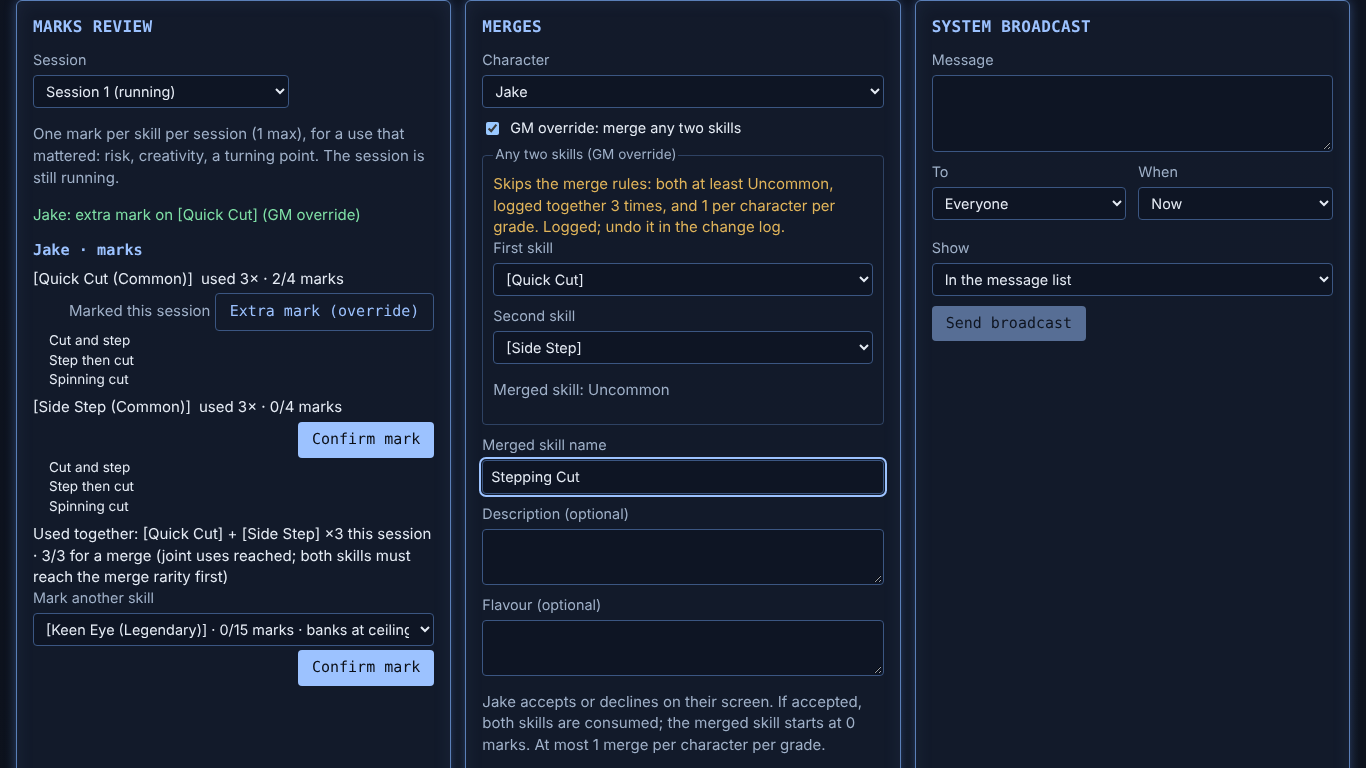
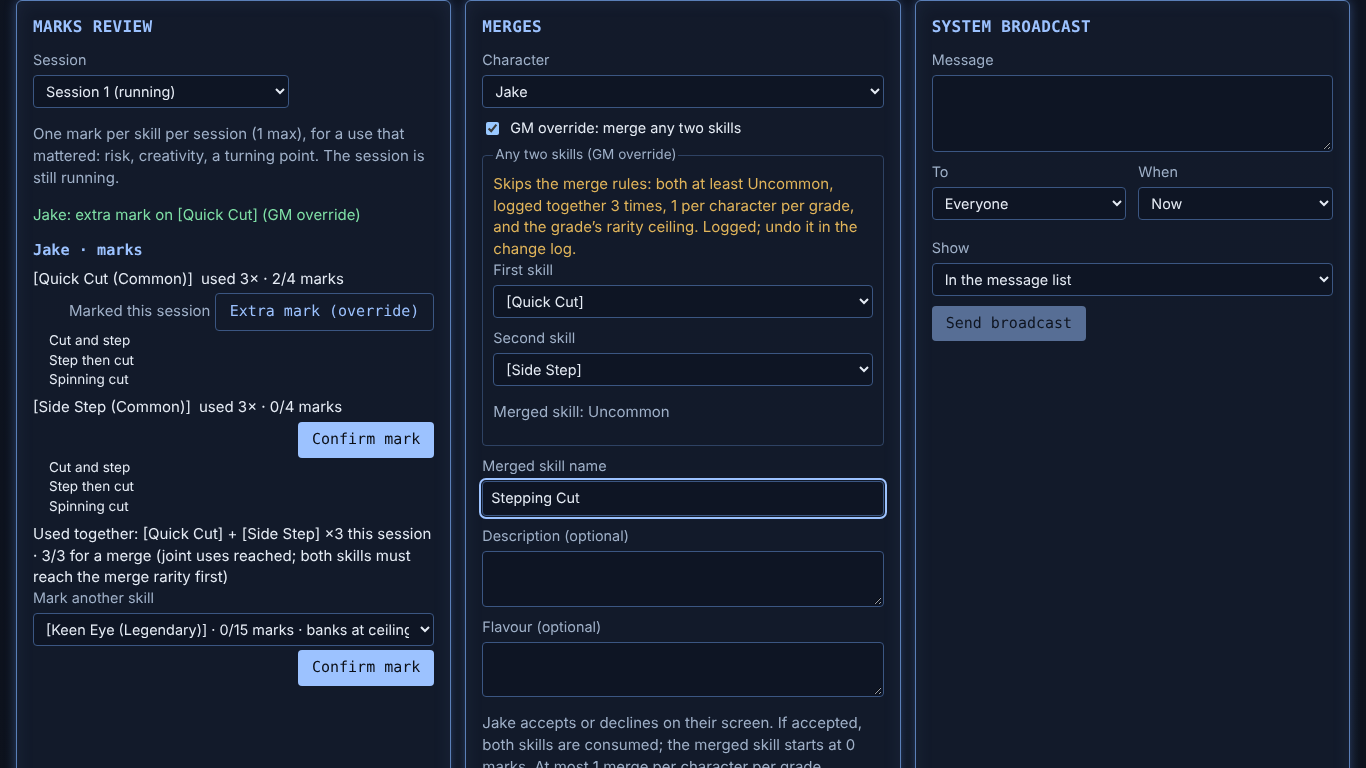
fix(MT.7): review round 1: refusal list reads ternary and …Problem messages (14 more rows); merge override passes the ceiling; profession override replaces one; honest ways through for evolution merges, race skills, pools
Claude-Session: https://claude.ai/code/session_017y6R7RmGE3viwbwN5417LU

Changed region(s): [[0.3382, 0.25, 0.6457, 0.7188], [0.3382, 0.9062, 0.6457, 1.0], [0.3382, 0.7812, 0.4612, 0.8438]]

diff --git a/apps/web/src/gm/SkillOverrides.tsx b/apps/web/src/gm/SkillOverrides.tsx
@@ -76,6 +76,7 @@ export function SkillOverrides({
   const unlock = rules.tracks.professionUnlockGrade;
   const gradeIndex = (id: string) => rules.grades.findIndex((g) => g.id === id);
   const early = gradeIndex(c.grade) < gradeIndex(unlock);
+  const replacing = c.profession !== null;
 
   return (
     <fieldset className="sheet-overrides" aria-label="Skill and profession overrides">
@@ -197,44 +198,45 @@ export function SkillOverrides({
           Give skill
         </button>
       </div>
-      {c.profession === null && (
-        <div className="override-row" role="group" aria-label="Grant a profession">
-          <label>
-            Grant a profession now
-            <input
-              value={profession}
-              maxLength={100}
-              onChange={(e) => setProfession(e.target.value)}
-            />
-          </label>
-          {early && (
-            <p className="warn small" data-testid="profession-override-notes">
-              Override: professions unlock at {unlock}-grade; {c.name} is {c.grade}-grade. It starts
-              at class level {c.classLevel}.
-            </p>
-          )}
-          <button
-            type="button"
-            className="secondary"
-            disabled={busy || profession.trim() === ''}
-            onClick={() =>
-              void send(
-                {
-                  type: 'character.grantProfession',
-                  characterId: c.id,
-                  profession: profession.trim(),
-                  ...(early ? { override: true } : {}),
-                },
-                `${c.name} is now a [${profession.trim()}]`,
-              ).then((ok) => {
-                if (ok) setProfession('');
-              })
-            }
-          >
-            Grant profession
-          </button>
-        </div>
-      )}
+      <div className="override-row" role="group" aria-label="Grant a profession">
+        <label>
+          {replacing ? 'Replace the profession' : 'Grant a profession now'}
+          <input
+            value={profession}
+            maxLength={100}
+            onChange={(e) => setProfession(e.target.value)}
+          />
+        </label>
+        {(early || replacing) && (
+          <p className="warn small" data-testid="profession-override-notes">
+            Override:{' '}
+            {replacing
+              ? `replaces [${c.profession}] (lvl ${c.professionLevel}); profession skills stay.`
+              : `professions unlock at ${unlock}-grade; ${c.name} is ${c.grade}-grade.`}{' '}
+            The new profession starts at class level {c.classLevel}.
+          </p>
+        )}
+        <button
+          type="button"
+          className="secondary"
+          disabled={busy || profession.trim() === '' || profession.trim() === c.profession}
+          onClick={() =>
+            void send(
+              {
+                type: 'character.grantProfession',
+                characterId: c.id,
+                profession: profession.trim(),
+                ...(early || replacing ? { override: true } : {}),
+              },
+              `${c.name} is now a [${profession.trim()}]`,
+            ).then((ok) => {
+              if (ok) setProfession('');
+            })
+          }
+        >
+          {replacing ? 'Replace profession' : 'Grant profession'}
+        </button>
+      </div>
       {outcome && (
         <p className={outcome.ok ? 'ok' : 'err'} role={outcome.ok ? 'status' : 'alert'}>
           {outcome.text}

diff --git a/packages/engine/test/gmOverrides.test.ts b/packages/engine/test/gmOverrides.test.ts
@@ -75,6 +75,23 @@ describe('GM overrides the merge rules (MT.7)', () => {
     expect(replay(c.events).state).toEqual(c.state);
   });
 
+  it('with it: two Rare skills merge past the G-grade ceiling (MT.7 review)', () => {
+    const rare = (skill: string): Command => ({
+      type: 'skill.setRarity',
+      characterId: ID,
+      skill,
+      rarity: 'rare',
+    });
+    const c = run([...start(), rare('Cut'), rare('Step')]);
+    expect(refusal(c, merge('Cutstep', ['Cut', 'Step'], false))).toMatch(/logged together/);
+    const merged = run([merge('Cutstep', ['Cut', 'Step'])], testContext('m'), c);
+    expect(projectForPlayer(merged.state!, ID).me.mergeOffer?.rarity).toBe('epic');
+    const done = run([accept('o-Cutstep')], player, merged);
+    expect(done.state!.characters[ID]!.skills.find((s) => s.name === 'Cutstep')?.rarity).toBe(
+      'epic',
+    );
+  });
+
   it('players cannot send an override merge', () => {
     const r = execute(run(start()), merge('Cutstep', ['Cut', 'Step']), player);
     expect(r.ok ? 'ok' : r.error).toMatch(/Not allowed/);
@@ -101,6 +118,20 @@ describe('GM grants a profession before E-grade (MT.7)', () => {
     });
     expect(replay(granted.events).state).toEqual(granted.state);
     expect(undo(granted).state!.characters[ID]!.profession).toBeNull();
+  });
+
+  it('replaces a profession the character has, only with the override (MT.7 review)', () => {
+    const c = run([...start(), grant(true)]);
+    const swap: Command = {
+      type: 'character.grantProfession',
+      characterId: ID,
+      profession: 'Smith',
+    };
+    expect(refusal(c, swap)).toMatch(/already has a profession/);
+    expect(refusal(c, { ...grant(true) })).toMatch(/already has the profession \[Alchemist\]/);
+    const swapped = run([{ ...swap, override: true } as Command], testContext('s'), c);
+    expect(swapped.state!.characters[ID]!.profession).toBe('Smith');
+    expect(undo(swapped).state!.characters[ID]!.profession).toBe('Alchemist');
   });
 });
 

diff --git a/scripts/gm-overrides.test.ts b/scripts/gm-overrides.test.ts
@@ -1,7 +1,7 @@
 import { readFileSync } from 'node:fs';
 import path from 'node:path';
 import { describe, expect, it } from 'vitest';
-import { ROOT, listRefusals, refusalKey } from './gm-refusals.mjs';
+import { ROOT, listRefusals, refusalKey, variableRefusals } from './gm-refusals.mjs';
 
 // MT.7 (DESIGN §7, Q60): docs/GM-OVERRIDES.md lists every refusal the engine
 // can give, with the GM's way through. A new refusal needs a line there.
@@ -20,6 +20,17 @@ describe('GM overrides list (MT.7)', () => {
     expect(refusalKey('[${a.b}] needs ${n} marks\n   (has ${f({ x: 1 })})')).toBe(
       '[…] needs … marks (has …)',
     );
+  });
+
+  it('reads every refusal passed on as a variable from a …Problem function (MT.7 review)', () => {
+    const sites = variableRefusals();
+    expect(sites.length).toBeGreaterThan(0);
+    for (const site of sites) {
+      expect(site.from, `${site.file}:${site.line} ${site.variable}`).toMatch(/Problem$/);
+    }
+    const keys = listRefusals().map((r) => r.key);
+    expect(keys).toContain('the … list (ids and order) cannot change in a running campaign');
+    expect(keys).toContain('this contest needs a roll');
   });
 
   it('lists every refusal with a category and a way through', () => {

diff --git a/apps/web/src/gm/MergeBuilder.tsx b/apps/web/src/gm/MergeBuilder.tsx
@@ -166,8 +166,9 @@ export function MergeBuilder({ client, state }: { client: LiveClient; state: Cam
                   <legend>Any two skills (GM override)</legend>
                   <p className="warn" role="note" data-testid="merge-override-skips">
                     Skips the merge rules: both at least {rarityName(rules.skills.merge.minRarity)},
-                    logged together {rules.skills.merge.requiredJointUses} times, and {perGrade} per
-                    character per grade. Logged; undo it in the change log.
+                    logged together {rules.skills.merge.requiredJointUses} times, {perGrade} per
+                    character per grade, and the grade&rsquo;s rarity ceiling. Logged; undo it in
+                    the change log.
                   </p>
                   {[0, 1].map((i) => (
                     <label key={i}>

diff --git a/packages/engine/src/character/model.ts b/packages/engine/src/character/model.ts
@@ -356,8 +356,13 @@ export function grantProfession(
   /** MT.7 GM override: grant one before the unlock grade. */
   override = false,
 ): Character {
-  if (character.profession !== null) {
+  // MT.7 review: the override also replaces a profession the character has
+  // (the new one starts at the class level; profession skills stay).
+  if (!override && character.profession !== null) {
     throw new CharacterRuleError('Character already has a profession');
+  }
+  if (character.profession !== null && character.profession === profession.trim()) {
+    throw new CharacterRuleError(`${character.name} already has the profession [${profession}]`);
   }
   const unlock = gradeIndexOf(rules, rules.tracks.professionUnlockGrade);
   if (!override && gradeIndexOf(rules, character.grade) < unlock) {

diff --git a/packages/engine/src/skills/model.ts b/packages/engine/src/skills/model.ts
@@ -308,7 +308,8 @@ export function mergeSkills(
     merge.rarityStepsAboveHigher;
   const result = rules.skills.rarities[target];
   const ceiling = rarityIndex(rules, currentGrade(rules, character).rarityCeiling);
-  if (!result || result.reserved || target > ceiling) {
+  // MT.7 review: the GM's override may also merge past the grade ceiling.
+  if (!result || result.reserved || (!override && target > ceiling)) {
     throw new CharacterRuleError(
       `The merged skill would be above the ${character.grade}-grade ceiling`,
     );

diff --git a/docs/GM-OVERRIDES.md b/docs/GM-OVERRIDES.md
@@ -39,7 +39,7 @@ refusal is raised.
 | `Not enough … (has …)` | packages/engine/src/economy/model.ts:140 | Edit holdings (`holdings.adjust`) sets currency and items directly |
 | `Not enough […] (has …, needs …)` | packages/engine/src/economy/model.ts:149 | Edit holdings (`holdings.adjust`) sets currency and items directly |
 | `Approve the skill re-rating first: the GM sets each kept skill's rarity and approves the list (DESIGN §6)` | packages/engine/src/events/commands.ts:1332 | One click: the GM sets and approves the re-rating in the evolution builder (the approval is the GM's own act) |
-| `… must be between 0 and …` | packages/engine/src/events/reducer.ts:973 | Pools stay within their maximum; raise the maximum through stats (`character.setStats`) |
+| `… must be between 0 and …` | packages/engine/src/events/reducer.ts:973 | Not a rule to overrule: a pool is a value within its maximum. Raise the maximum through stats (`character.setStats`), then set the pool |
 | `the race level … points are already assigned and locked` | packages/engine/src/events/reducer.ts:1036 | Free-point override (`freePoints.override`) rewrites or clears any batch |
 | `assign exactly … points (got …)` | packages/engine/src/events/reducer.ts:1047 | Free-point override (`freePoints.override`) rewrites or clears any batch |
 | `… would drop below 0` | packages/engine/src/events/reducer.ts:1053 | Set stats directly (`character.setStats`) |
@@ -51,13 +51,13 @@ refusal is raised.
 | `No selection is offered at level …` | packages/engine/src/evolution/model.ts:410 | `skill.grant` (Edit sheet → "Give a skill") gives a skill outside the selection schedule |
 | `[…] is a race skill and never drops a rarity` | packages/engine/src/evolution/model.ts:521 | `skill.setRarity` (Edit sheet → "Set rarity") (and `skill.grant`) change race skills too, with a warning that Identify never drops by default |
 | `[…] cannot be raised above the …-grade ceiling (…)` | packages/engine/src/evolution/model.ts:524 | `skill.setRarity` (Edit sheet → "Set rarity") sets any rarity after the fact; or raise the ceiling in Rules |
-| `[…] is a race skill and cannot be merged away at evolution` | packages/engine/src/evolution/model.ts:542 | `skill.setRarity` (Edit sheet → "Set rarity") (and `skill.grant`) change race skills too, with a warning that Identify never drops by default |
-| `[…] is a race skill and keeps its name at evolution` | packages/engine/src/evolution/model.ts:554 | `skill.setRarity` (Edit sheet → "Set rarity") (and `skill.grant`) change race skills too, with a warning that Identify never drops by default |
+| `[…] is a race skill and cannot be merged away at evolution` | packages/engine/src/evolution/model.ts:542 | Leave the race skill out of the transform; after the evolution, `skill.grant` gives the new race skill and `skill.setRarity` changes the old one. Identify is never consumed by an evolution itself (DESIGN §6) |
+| `[…] is a race skill and keeps its name at evolution` | packages/engine/src/evolution/model.ts:554 | Leave the race skill out of the transform; after the evolution, `skill.grant` gives the new race skill and `skill.setRarity` changes the old one. Identify is never consumed by an evolution itself (DESIGN §6) |
 | `[…] must be … (one above the higher merged skill)` | packages/engine/src/evolution/model.ts:620 | `skill.setRarity` (Edit sheet → "Set rarity") after the evolution sets the final rarity |
 | `[…] cannot drop to a lower rarity` | packages/engine/src/evolution/model.ts:625 | `skill.setRarity` (Edit sheet → "Set rarity") after the evolution sets the final rarity |
-| `… can merge … time(s) per grade (… done at …-grade)` | packages/engine/src/evolution/model.ts:642 | `skill.merge` with `override: true` (Merges window → "GM override: merge any two skills"; the player still accepts or declines) skips the joint-use count, minimum rarity and once-per-grade checks |
-| `[…] must be at least … to merge` | packages/engine/src/evolution/model.ts:662 | `skill.merge` with `override: true` (Merges window → "GM override: merge any two skills"; the player still accepts or declines) skips the joint-use count, minimum rarity and once-per-grade checks |
-| `[…] and […] were logged together … times (need …)` | packages/engine/src/evolution/model.ts:667 | `skill.merge` with `override: true` (Merges window → "GM override: merge any two skills"; the player still accepts or declines) skips the joint-use count, minimum rarity and once-per-grade checks |
+| `… can merge … time(s) per grade (… done at …-grade)` | packages/engine/src/evolution/model.ts:642 | Release the evolution without that merge transform, then `skill.merge` with `override: true` after it (Merges window), which skips this check |
+| `[…] must be at least … to merge` | packages/engine/src/evolution/model.ts:662 | Release the evolution without that merge transform, then `skill.merge` with `override: true` after it (Merges window), which skips this check |
+| `[…] and […] were logged together … times (need …)` | packages/engine/src/evolution/model.ts:667 | Release the evolution without that merge transform, then `skill.merge` with `override: true` after it (Merges window), which skips this check |
 | `… cannot evolve yet (… level … of …)` | packages/engine/src/evolution/model.ts:706 | Set levels with the level/XP/grade override (`character.setProgression`) to reach the gate |
 | `Professions are offered from the …-grade evolution on, to a character without one` | packages/engine/src/evolution/model.ts:729 | `character.grantProfession` with `override: true` (Edit sheet → "Grant a profession now") |
 | `… has a skill selection to choose first (class level …); an evolution cannot be … until then` | packages/engine/src/evolution/model.ts:950 | `evolution.release` with `override: true` (evolution builder → "GM override: release now anyway"); the player then evolves without choosing first, and the selections stay due |
@@ -67,14 +67,18 @@ refusal is raised.
 | `[…] needs … marks (has …)` | packages/engine/src/skills/model.ts:249 | `skill.setRarity` (Edit sheet → "Set rarity") upgrades any skill directly |
 | `[…] is at the …-grade ceiling; its marks bank until the next evolution` | packages/engine/src/skills/model.ts:252 | `skill.setRarity` (Edit sheet → "Set rarity") upgrades any skill directly |
 | `Already merged at …-grade` | packages/engine/src/skills/model.ts:304 | `skill.merge` with `override: true` (Merges window → "GM override: merge any two skills"; the player still accepts or declines) skips the joint-use count, minimum rarity and once-per-grade checks |
-| `The merged skill would be above the …-grade ceiling` | packages/engine/src/skills/model.ts:312 | `skill.setRarity` (Edit sheet → "Set rarity") sets any rarity after the fact; or raise the ceiling in Rules |
+| `The merged skill would be above the …-grade ceiling` | packages/engine/src/skills/model.ts:312 | `skill.merge` with `override: true` (Merges window) merges past the ceiling too |
+| `the … list (ids and order) cannot change in a running campaign` | packages/engine/src/events/reducer.ts:731 | No override, by guarantee 2: stored events name grades, stats, pools, rarities and slots by id and position, so changing the list would change what the log means. Rename entries and change their numbers freely; a new list needs a new campaign |
+| `XP overflow always stays on` | packages/engine/src/events/reducer.ts:735 | No rules switch (Luke, Q49/L16: overflow applies to every campaign); the GM sets XP and levels directly with the level/XP/grade override (`character.setProgression`) |
+| `XP overflow is turned on by the rules migration when the campaign opens, which moves banked XP first` | packages/engine/src/events/reducer.ts:735 | Reopen the campaign so the migration runs; then the level/XP/grade override sets anything directly |
+| `these rules do not fit the campaign as it is: ……` | packages/engine/src/events/reducer.ts:792 | Bring the named characters inside the new rules first (level/XP/grade override, "Set rarity", Edit holdings), then save the rules |
 
 ## State
 
 | Refusal | Where | GM way through |
 | --- | --- | --- |
-| `Character already has a profession` | packages/engine/src/character/model.ts:360 | The character has one: a profession is chosen once (DESIGN §2); to change it, undo the choice in the change log |
-| `… already has the profession […]` | packages/engine/src/character/model.ts:387 | The character has one: a profession is chosen once (DESIGN §2); to change it, undo the choice in the change log |
+| `Character already has a profession` | packages/engine/src/character/model.ts:360 | `character.grantProfession` with `override: true` (Edit sheet → "Replace profession") replaces it; the new one starts at the class level |
+| `… already has the profession […]` | packages/engine/src/character/model.ts:387 | `character.grantProfession` with `override: true` (Edit sheet → "Replace profession") replaces it; the new one starts at the class level (a player taking an offer cannot) |
 | `"…" is not one of your offered professions` | packages/engine/src/character/model.ts:392 | Offer it first (Professions offers / evolution builder) |
 | `… already has the profession […]; the offers are locked` | packages/engine/src/character/model.ts:404 | The character has one: a profession is chosen once (DESIGN §2); to change it, undo the choice in the change log |
 | `"…" is not offered to …` | packages/engine/src/character/model.ts:411 | Offer it first (Professions offers / evolution builder) |
@@ -130,6 +134,10 @@ refusal is raised.
 | `[…] is already …` | packages/engine/src/skills/model.ts:114 | Already that rarity |
 | `That merge offer is no longer open` | packages/engine/src/skills/model.ts:374 | Send the merge again |
 | `That merge offer is out of date: one of its skills has changed. Ask the GM to send it again` | packages/engine/src/skills/model.ts:385 | Send the merge again |
+| `… has no portrait` | packages/engine/src/events/reducer.ts:868 | Nothing to remove |
+| `… already has that portrait` | packages/engine/src/events/reducer.ts:868 | Nothing to change |
+| `a walled contest has no roll` | packages/engine/src/events/reducer.ts:1923 | A malformed stored contest; share it again from the roller |
+| `this contest needs a roll` | packages/engine/src/events/reducer.ts:1923 | A malformed stored contest; share it again from the roller |
 
 ## Data
 
@@ -317,6 +325,10 @@ refusal is raised.
 | `[…] already has that text` | packages/engine/src/skills/model.ts:75 | Fix the input or define the thing first |
 | `The merged skill needs a name` | packages/engine/src/skills/model.ts:317 | Fix the input or define the thing first |
 | `The library already has […]` | packages/engine/src/titles/index.ts:49 | Fix the input or define the thing first |
+| `unknown rarity "…"` | packages/engine/src/entities/model.ts:40 | Fix the input or define the thing first |
+| `two tiers for rarity "…"` | packages/engine/src/entities/model.ts:41 | Fix the input: one Identify tier per rarity |
+| `give both a grade and a level, or neither` | packages/engine/src/entities/model.ts:73 | Fix the input |
+| `level must be at most …` | packages/engine/src/entities/model.ts:77 | Raise the campaign level cap in Rules, or fix the input |
 
 ## Permission
 
@@ -333,3 +345,5 @@ refusal is raised.
 | `… notes are … shared` | packages/engine/src/events/reducer.ts:1605 | Applies to players (or the System), not the GM |
 | `only the author can change this note` | packages/engine/src/events/reducer.ts:1636 | Applies to players (or the System), not the GM |
 | `only journal entries can change who reads them` | packages/engine/src/events/reducer.ts:1647 | Applies to players (or the System), not the GM |
+| `only … can cancel this trade` | packages/engine/src/events/reducer.ts:1394 | Limits players only; the GM cancels any trade |
+| `only … can answer this trade` | packages/engine/src/events/reducer.ts:1394 | Limits players only; the GM answers for anyone |
